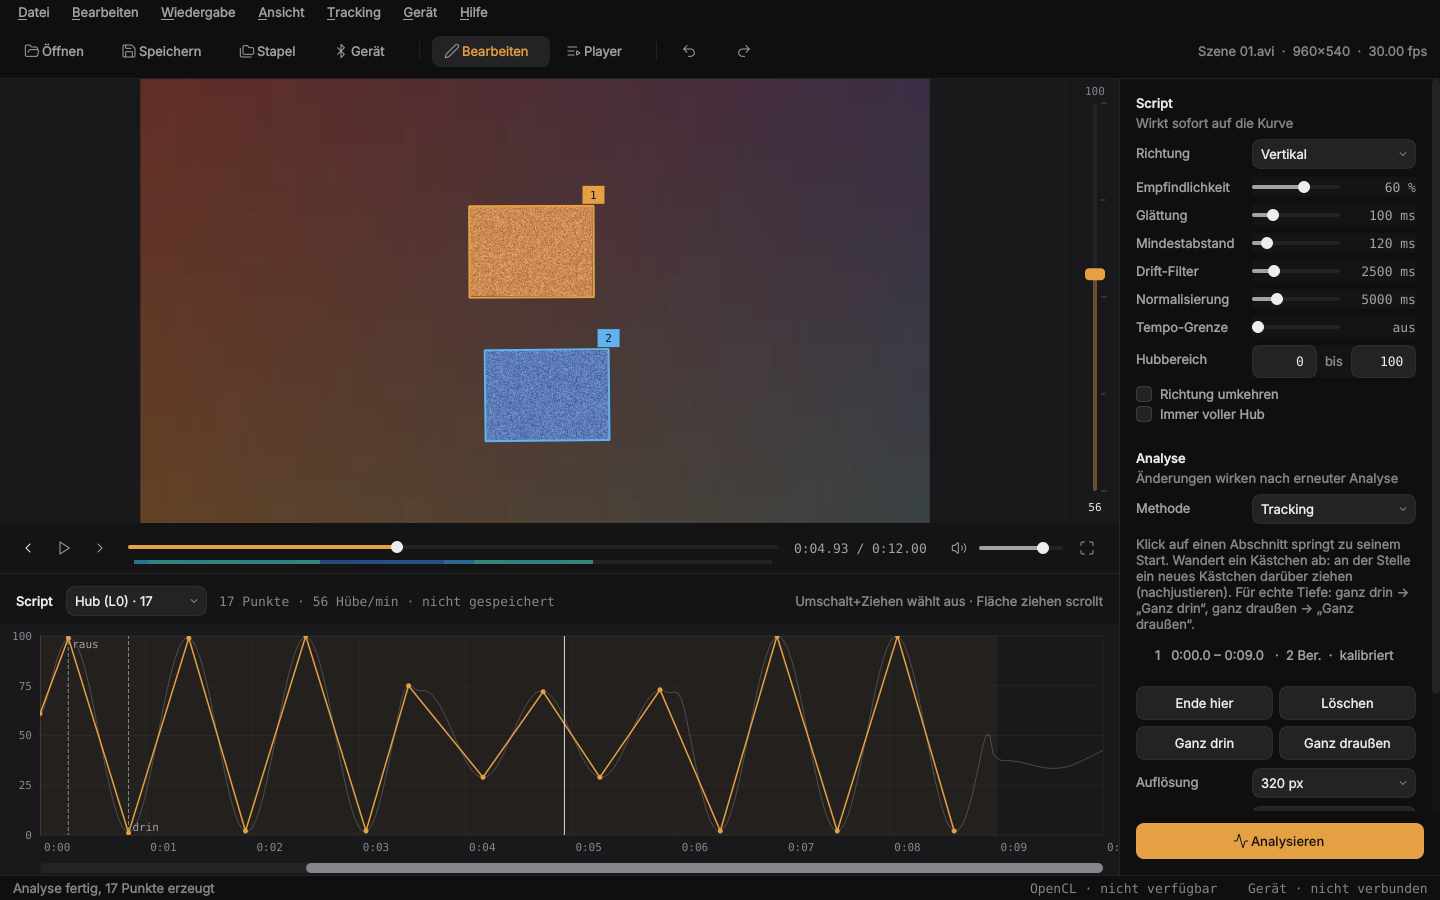
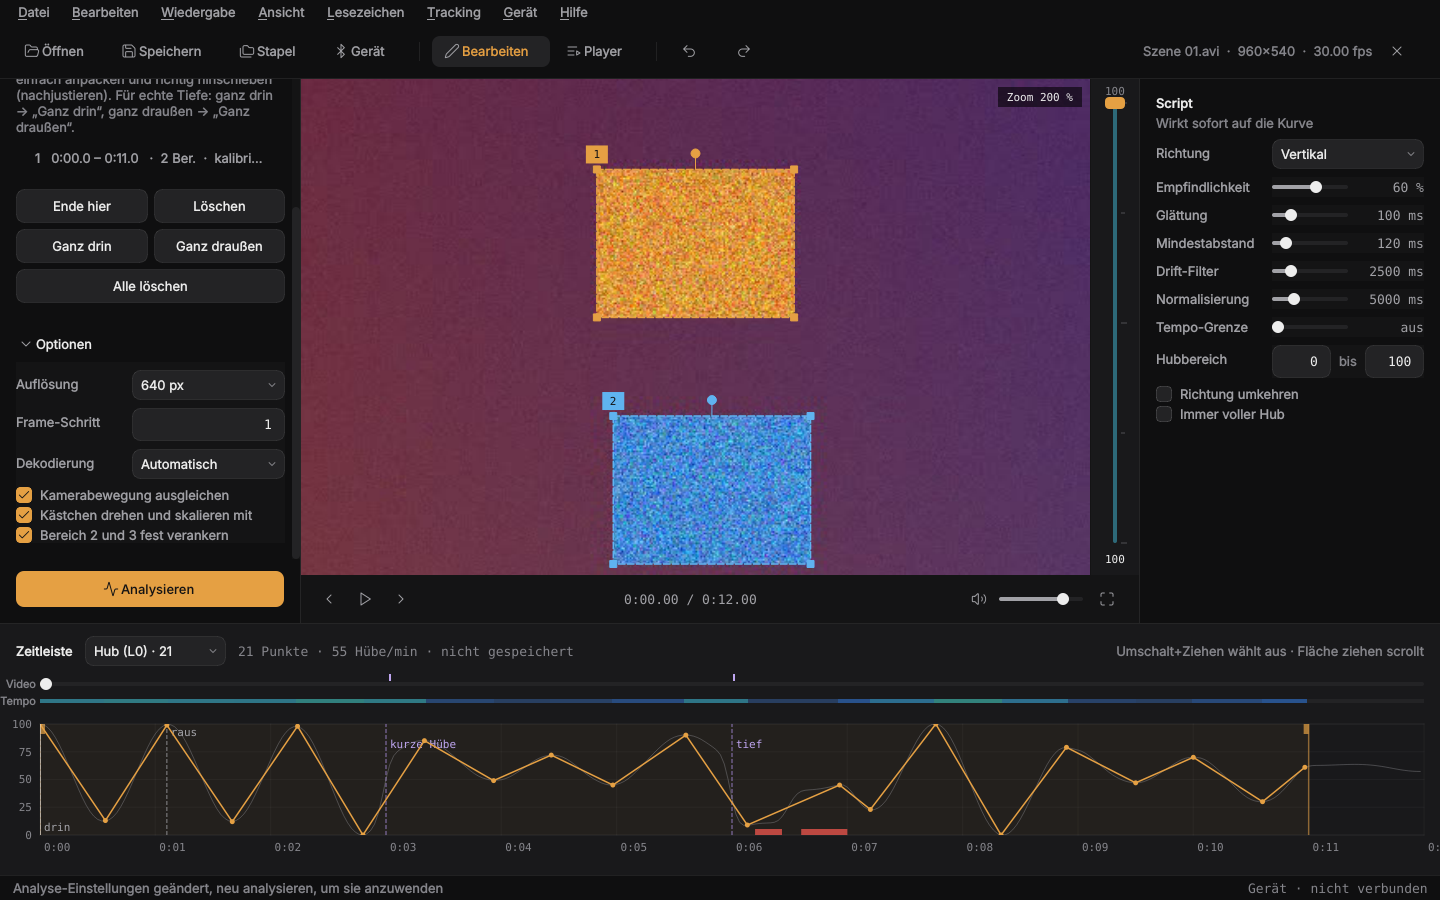
README und Bilder auf Stand 0.8, kurze Anleitung
- Neue Screenshots im neuen Layout: Hauptbild (Tracking analysiert, mit
  Kalibrierung, Lesezeichen und einer verdeckten Stelle in Rot), Tracking
  gezoomt mit den Optionen, Player mit Countdown. Geräte-Dialog unverändert.
- docs/anleitung.md: Aufbau des Fensters, 8 Schritte vom Video zum Script,
  Optionen, Script-Einstellungen, Abspielen, Probleme und Lösungen,
  Tastenkürzel. Verlinkt ganz oben in der README.
- README: Funktionen Stand 0.8, Aufbau, Kästchen anpassen und Zoom,
  Optionen (nur verschieben, verankern), Verdeckung und Nachjustieren durch
  Anpacken, Lesezeichen und Rhythmus, Countdown im Player.

Claude-Session: https://claude.ai/code/session_012kwxq3o6oN4xhTxcku6FJh

diff --git a/README.md b/README.md
@@ -3,17 +3,19 @@
 Kostenlose, quelloffene Software zur **lokalen** Videoanalyse und automatischen
 Erstellung von Funscripts. Keine Cloud, keine Abos, keine API-Kosten.
 
-![Bearbeiten: analysierte Kurve, Heatmap und Einstellungen](docs/screenshot.png)
+**→ [Anleitung: in 8 Schritten vom Video zum Script](docs/anleitung.md)**
+
+![Bearbeiten: links Analyse und Tracking, Mitte Video, rechts Script, unten die Zeitleiste](docs/screenshot.png)
 
 | Tracking | Player | Gerät |
 |---|---|---|
-| [![Tracking mit zwei Bereichen, Abschnitt und Tiefen-Kalibrierung](docs/tracking.png)](docs/tracking.png) | [![Player-Modus mit Playlist](docs/player.png)](docs/player.png) | [![Geräte-Dialog mit Simulation](docs/device.png)](docs/device.png) |
-| Bereiche verfolgen, Abschnitte, Kalibrierung „drin/raus“ | Playlist, Videos mit Script nacheinander | Fredorch F21S über Intiface oder Simulation |
+| [![Kästchen markieren, gezoomt, mit Optionen](docs/tracking.png)](docs/tracking.png) | [![Player-Modus mit Playlist und Countdown](docs/player.png)](docs/player.png) | [![Geräte-Dialog mit Simulation](docs/device.png)](docs/device.png) |
+| Kästchen markieren und zoomen, verankern, Optionen | Playlist, Countdown vor dem Start | Fredorch F21S über Intiface oder Simulation |
 
 Entwickelt und getestet für Nobara Linux (KDE) mit AMD Ryzen 7 3700X und
 Radeon RX 5700 XT – läuft aber auf jedem Linux mit Python ≥ 3.10.
 
-## Funktionen (Stand 0.5)
+## Funktionen (Stand 0.8)
 
 | | Funktion | Status |
 |---|---|---|
@@ -35,6 +37,12 @@ Radeon RX 5700 XT – läuft aber auf jedem Linux mit Python ≥ 3.10.
 | 16 | Robusteres Tracking: drehbare Kästchen, Drift-Korrektur, Nachjustieren | ✅ |
 | 17 | Stapel mit Tracking (Videos vorbereiten, dann durchlaufen lassen) | ✅ |
 | 18 | Heatmap und Tempo-Grenze | ✅ |
+| 19 | Layout wie ein Schnittprogramm: links Analyse, Mitte Video, rechts Script, unten Zeitleiste | ✅ |
+| 20 | Verdeckung erkennen (auch durch eine Hand) und Bereich danach wiederfinden | ✅ |
+| 21 | Video-Zoom zum Markieren kleiner Stellen, Kästchen direkt anpacken und korrigieren | ✅ |
+| 22 | Bereiche 2/3 fest verankern, Kästchen nur verschieben (für Maschinen) | ✅ |
+| 23 | Lesezeichen/Kapitel, Rhythmus-Vorlagen, Abschnitte in der Kurve ziehen | ✅ |
+| 24 | Player: ruhigen Anfang überspringen, Countdown vor dem Start | ✅ |
 
 ## Installation als AppImage (am einfachsten)
 
@@ -98,6 +106,15 @@ Auflösungen lohnt sich OpenCL eher.
 
 ## Bedienung
 
+Eine kurze Schritt-für-Schritt-Anleitung steht in
+[docs/anleitung.md](docs/anleitung.md). Hier alle Funktionen im Einzelnen.
+
+**Aufbau**: links die Analyse (Methode, Tracking, Optionen, „Analysieren“),
+in der Mitte das Video mit der Hub-Leiste, rechts die Script-Einstellungen,
+unten die Zeitleiste mit den Spuren Video, Tempo und Kurve. Ansicht →
+Strg+1 / Strg+2 klappt die linke bzw. rechte Leiste ein. Strg+W schließt das
+Video.
+
 1. Video öffnen (Strg+O oder per Drag & Drop).
 2. Optional: im Vorschaubild ein Rechteck um den relevanten Bereich ziehen
    (ROI). Rechtsklick entfernt die ROI. Das verbessert die Erkennung deutlich.
@@ -156,17 +173,31 @@ Kalibrierung wirkt sofort, ohne neue Analyse.
 
 Beim Abspielen zeigt die Vorschau, wo die Bereiche gerade sind.
 
-*Drehen*: Kästchen am runden Griff über der Oberkante drehen oder mit dem
-Mausrad über dem Kästchen (Umschalt = feinere Schritte). Beim Verfolgen drehen
-und skalieren sich die Bereiche mit.
+*Kästchen anpassen*: Am Start eines Abschnitts (Klick in der Liste) innen
+ziehen = verschieben, an einer Ecke = Größe, am runden Griff oder mit dem
+Mausrad = drehen (Umschalt = feinere Schritte). Kleine Stellen: **Strg+Mausrad**
+zoomt ins Video, die mittlere Maustaste verschiebt den Ausschnitt, Strg+0
+setzt zurück. Bei sehr kleinen Kästchen erinnert die Statuszeile an eine
+höhere Analyse-Auflösung (Standard 640 px).
 
-*Wandernde Kästchen*: Das Tracking prüft auf unmögliche Sprünge, gleicht
-regelmäßig mit dem Aussehen beim Markieren ab und sucht verlorene Bereiche
-wieder. Stellen, an denen ein Bereich verloren war, sind rot in der Kurve
-markiert. Wandert ein Kästchen trotzdem ab: an der Stelle einfach ein neues
-Kästchen **über** das abgewanderte ziehen (*nachjustieren*). Nach der nächsten
-Analyse folgt der Bereich von dort aus, die Abweichung davor wird ausgeglichen.
-Ein Kästchen an einer freien Stelle beginnt dagegen einen neuen Abschnitt.
+*Optionen* (links, eingeklappt): Auflösung, Frame-Schritt, Dekodierung,
+Kamerabewegung ausgleichen, **Kästchen drehen und skalieren mit** (aus für
+Maschinen und starre Teile: die Kästchen verschieben sich dann nur) und
+**Bereich 2 und 3 fest verankern** (sie bleiben, wo sie markiert sind, und
+gehen nur mit der Kamera mit, nichts kann sie wegziehen; bei Kamerafahrten
+aus).
+
+*Wandernde Kästchen und Verdeckung*: Das Tracking prüft auf unmögliche
+Sprünge und gleicht alle paar Bilder mit dem Aussehen beim Markieren (und bei
+jeder Korrektur) ab, auch gedreht und skaliert. Schiebt sich etwas davor,
+auch nur teilweise wie eine Hand, springt der Bereich an die letzte sichere
+Stelle zurück, wird rot und wartet, bis er wieder zu sehen ist. Rote Stellen
+in der Kurve: dort war ein Bereich verdeckt oder verloren, dort entstehen
+keine Hübe. Liegt ein Kästchen trotzdem daneben: an der Stelle **anpacken und
+richtig hinschieben** (*nachjustieren*). Nach der nächsten Analyse folgt der
+Bereich von dort aus, und die Strecke davor wird rückwärts verfolgt und
+ausgeglichen. Anfang und Ende eines Abschnitts lassen sich in der Kurve mit
+der Maus verschieben.
 
 *Vorbereitung*: Bereiche, Abschnitte und Kalibrierung werden sofort als
 `<Video>.vtf.json` neben dem Video gespeichert und beim nächsten Öffnen
@@ -190,10 +221,18 @@ Video, auf dem verbundenen Gerät, eins nach dem anderen. Optionen:
 wiederholen, zufällige Reihenfolge, Videos ohne Script überspringen. Bild ↑/↓
 springt zum vorherigen/nächsten Video, F11 schaltet Vollbild (Esc beendet es,
 zusammen mit dem Not-Aus). Playlists lassen sich als `.m3u` laden und
-speichern, die letzte merkt sich die App.
+speichern, die letzte merkt sich die App. Ein ruhiger Anfang wird übersprungen
+(Start 10 s vor dem ersten Hub), und in den letzten 10 s vor dem Start zählt
+ein Countdown herunter. Beides ist abschaltbar.
 
-**Heatmap und Tempo-Grenze**: Die farbige Leiste unter der Zeitleiste zeigt das
-Tempo des Scripts (dunkel = langsam, grün, gelb, rot = schnell). Mit
+**Lesezeichen und Rhythmus**: B setzt ein Lesezeichen mit Namen, Alt+→/←
+springt zum nächsten/vorigen, das Menü „Lesezeichen“ listet alle. Sie stehen
+in Kurve und Zeitleiste und werden in `<Video>.vtf.json` gespeichert.
+Strg+T („Rhythmus einfügen“) füllt einen Bereich mit einem Takt: gleichmäßig,
+schneller oder langsamer werdend, Doppelschlag oder Wellen, mit Tempo und Tiefe.
+
+**Heatmap und Tempo-Grenze**: Die Tempo-Spur in der Zeitleiste und die Farbe der
+Hub-Leiste neben dem Video zeigen das Tempo des Scripts (dunkel = langsam, grün, gelb, rot = schnell). Mit
 **Tempo-Grenze** (Script-Einstellungen) werden zu schnelle Hübe schon beim
 Erzeugen gekürzt. Für den F21S passt etwa 500 /s (voller Hub in ca. 200 ms).
 

diff --git a/docs/anleitung.md b/docs/anleitung.md
@@ -1,0 +1,113 @@
+# Anleitung: vom Video zum Script
+
+Kurz und der Reihe nach. Die ausführliche Beschreibung aller Funktionen steht
+in der [README](../README.md).
+
+![Tracking: Kästchen markieren, gezoomt, mit Optionen](tracking.png)
+
+## Aufbau des Fensters
+
+- **Links**: Analyse. Methode, Tracking-Abschnitte, Optionen, Knopf
+  „Analysieren“. Im Player steht hier die Playlist.
+- **Mitte**: das Video, rechts daneben die Hub-Leiste. Sie zeigt die
+  Script-Position, ihre Farbe zeigt das Tempo.
+- **Rechts**: Script-Einstellungen. Sie wirken sofort auf die Kurve.
+- **Unten**: die Zeitleiste mit Video, Tempo und der Hub-Kurve zum Bearbeiten.
+
+Strg+1 klappt die linke Leiste ein, Strg+2 die rechte.
+
+## In 8 Schritten zum Script
+
+1. **Video öffnen**: Strg+O oder die Datei ins Fenster ziehen.
+2. **Methode wählen** (links):
+   - *Bewegung im Bild*: erkennt die stärkste Bewegung selbst. Schnell, gut
+     bei ruhiger Kamera und einer klaren Bewegung.
+   - *Tracking*: du markierst, was verfolgt wird. Genauer, empfohlen.
+3. **Markieren** (bei Tracking): an eine Stelle spulen, wo alles gut zu sehen
+   ist, und Kästchen ins Video ziehen.
+   - **Kästchen 1** auf das Teil, das sich bewegt.
+   - **Kästchen 2** (und 3) auf ein Gegenstück, das stillhält oder sich
+     anders bewegt. Gemessen wird der Abstand zwischen 1 und den anderen,
+     deshalb stört die Kamera dann kaum.
+   - Stellen mit **Muster oder Kanten** nehmen, keine glatten Flächen. Kein
+     Hintergrund und nichts, was später verdeckt wird, mit ins Kästchen.
+   - Kleine Stellen: **Strg+Mausrad** zoomt ins Video, mit gedrücktem Mausrad
+     den Ausschnitt verschieben, Strg+0 setzt zurück.
+   - Kästchen anpassen: innen ziehen verschiebt, eine Ecke ändert die Größe,
+     der runde Griff oder das Mausrad drehen.
+4. **Kalibrieren** (empfohlen): zu einer Stelle spulen, wo es *ganz drin* ist,
+   und **Ganz drin** (D) drücken, dann zu *ganz draußen* und **Ganz draußen**
+   (A). Dann nutzt das Script die echte Tiefe.
+5. **Szenenwechsel**: dort **Ende hier** (E) drücken und an der neuen Stelle
+   neue Kästchen ziehen. Damit beginnt ein neuer Abschnitt.
+6. **Analysieren**: der orange Knopf unten links.
+7. **Prüfen und korrigieren**: abspielen und schauen, ob die Kästchen
+   mitlaufen.
+   - **Rot** in der Kurve: Hier war ein Bereich verdeckt oder verloren, dort
+     entstehen keine Hübe.
+   - Ein Kästchen liegt daneben: an der Stelle **anpacken und richtig
+     hinschieben**, dann neu analysieren. Die Zeit davor wird mit ausgeglichen.
+8. **Speichern**: Strg+S legt `<Video>.funscript` neben das Video.
+
+## Optionen (links unter „Optionen“)
+
+| Option | Wann |
+|---|---|
+| Auflösung | 640 px (Standard): genauer, gut für kleine Kästchen. Kleiner ist schneller |
+| Kamerabewegung ausgleichen | an lassen, wichtig bei nur einem Kästchen |
+| Kästchen drehen und skalieren mit | an für Körper, **aus für Maschinen** und starre Teile |
+| Bereich 2 und 3 fest verankern | an, wenn 2/3 auf festen Teilen sitzen und die Kamera ruhig ist. Dann kann nichts sie wegziehen. Bei Kamerafahrten aus |
+
+## Script feinstellen (rechts)
+
+| Einstellung | Wirkung |
+|---|---|
+| Richtung | welche Bewegung im Bild zum Hub wird (bei 2 Kästchen egal) |
+| Empfindlichkeit | höher = auch kleine Hübe |
+| Glättung | bügelt Zittern aus |
+| Mindestabstand | kürzeste Zeit zwischen zwei Punkten |
+| Drift-Filter | entfernt langsames Wegwandern |
+| Normalisierung | streckt leise Stellen auf vollen Hub (bei Kalibrierung egal) |
+| Tempo-Grenze | kürzt zu schnelle Hübe. F21S: etwa 500 /s |
+| Hubbereich | kleinster und größter Wert, z.B. 10 bis 90 |
+
+Von Hand nachbessern: Punkte in der Kurve ziehen, Doppelklick fügt hinzu,
+Rechtsklick löscht. **Strg+T** fügt einen gleichmäßigen Rhythmus für einen
+Bereich ein.
+
+## Abspielen
+
+- **Gerät**: Intiface Central starten → „Start Server“ → in der App
+  **Gerät** (Strg+D) → Verbinden. Ohne Gerät: „Simulation“.
+- **Player** (Strg+P): Videos in die Playlist ziehen, „Playlist abspielen“.
+  Ein ruhiger Anfang wird übersprungen, vor dem Start zählt ein Countdown.
+- **Esc** stoppt das Gerät sofort.
+
+## Wenn etwas nicht passt
+
+| Problem | Lösung |
+|---|---|
+| Kästchen wandert langsam weg | Stelle mit mehr Muster markieren, an der Stelle anpacken und zurückschieben |
+| Kästchen wird schief oder lang | „Kästchen drehen und skalieren mit“ ausschalten |
+| Hand oder Gegenstand zieht Kästchen 2/3 weg | „Bereich 2 und 3 fest verankern“ einschalten |
+| Zu viele kleine Zitter-Hübe | Empfindlichkeit runter, Glättung rauf |
+| Hübe zu flach | kalibrieren (D/A) oder Normalisierung nutzen |
+| Kurve läuft nicht mit | nach dem Scrollen 3 s warten, sie folgt wieder |
+| Analyse langsam | Grafikkarte prüfen: Hilfe → „Dekodierung testen…“ |
+
+## Tastenkürzel
+
+| Taste | Funktion |
+|---|---|
+| Leertaste | Abspielen/Pause |
+| ← / → | Bild zurück/vor, mit Umschalt 1 s |
+| E / D / A | Abschnitt-Ende, ganz drin, ganz draußen |
+| B, Alt+← / Alt+→ | Lesezeichen setzen, voriges/nächstes |
+| Strg+Mausrad, Strg+0 | Video zoomen, Zoom zurücksetzen |
+| Strg+T | Rhythmus einfügen |
+| Strg+S | Script speichern |
+| Strg+W | Video schließen |
+| Strg+P | Player |
+| Strg+1 / Strg+2 | linke/rechte Leiste ein/aus |
+| F11 | Vollbild |
+| Esc | Not-Aus (Gerät stoppen) |

diff --git a/docs/roadmap.md b/docs/roadmap.md
@@ -1,6 +1,6 @@
 # Roadmap
 
-Stand: 0.8.0. Erledigt sind Phase 1 (Analyse, Editor, Export, Stapel),
+Stand: 0.8.4. Erledigt sind Phase 1 (Analyse, Editor, Export, Stapel),
 Phase 2 Teil 1 (Gerätesteuerung über Intiface, Simulation), Phase 3
 (Player mit Playlist, Tracking mit Abschnitten und Tiefen-Kalibrierung,
 Mehrfachauswahl im Editor, weitere Achsen) und der größte Teil von Phase 4
